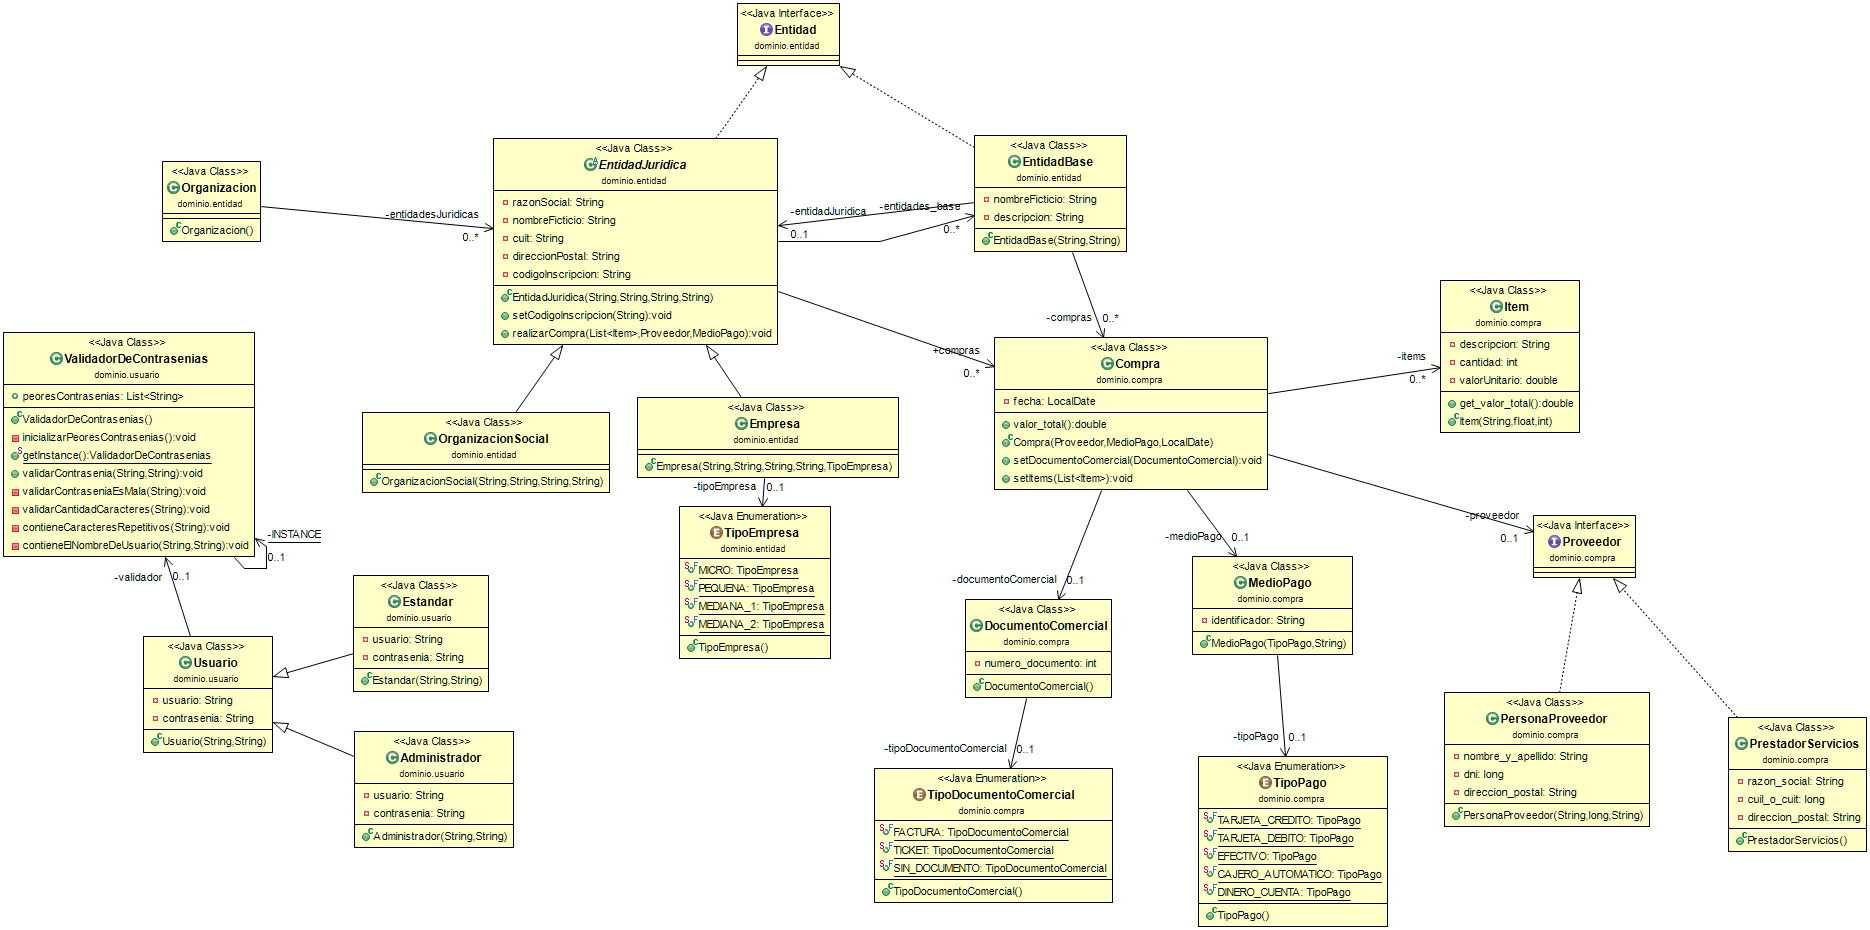
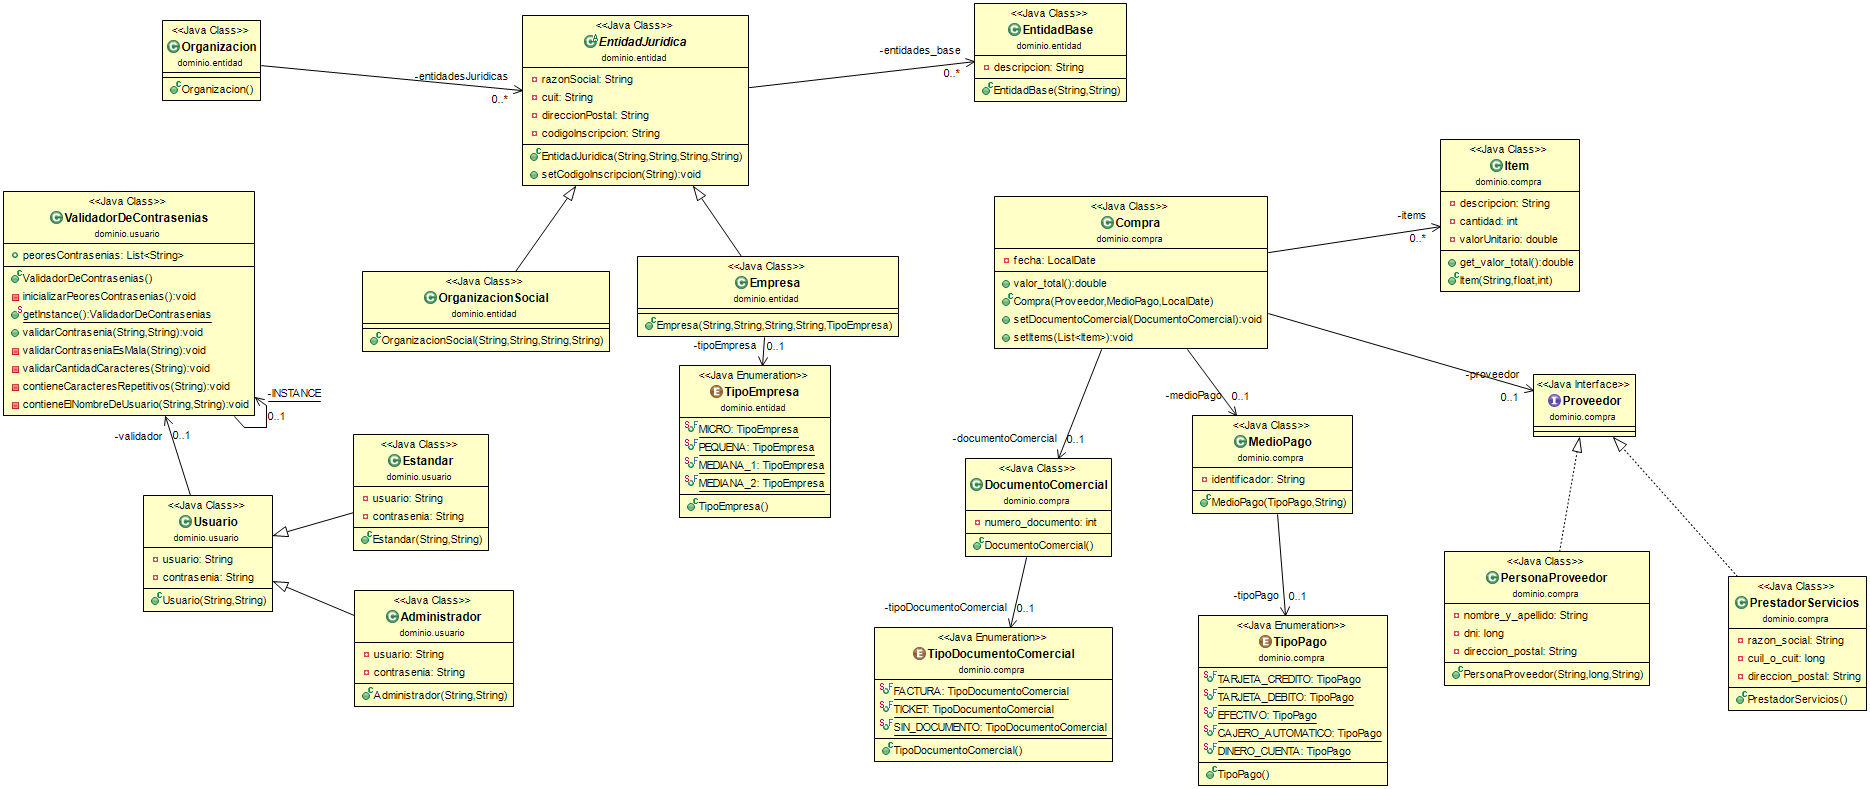
Muevo realizarCompra a super clase Entidad

diff --git a/src/main/java/dominio/entidad/EntidadJuridica.java b/src/main/java/dominio/entidad/EntidadJuridica.java
@@ -1,22 +1,15 @@
 package dominio.entidad;
 
-import java.time.LocalDate;
 import java.util.ArrayList;
 import java.util.List;
 
 import dominio.PreconditionFailed;
 import dominio.Preconditions;
-import dominio.compra.Compra;
-import dominio.compra.Item;
-import dominio.compra.MedioPago;
-import dominio.compra.Proveedor;
 
-public abstract class EntidadJuridica implements Entidad {
+public abstract class EntidadJuridica extends Entidad {
 
 	private List<EntidadBase> entidades_base = new ArrayList<EntidadBase>();	//puede ser vacia
-	public List<Compra> compras = new ArrayList<Compra>();
 	private String razonSocial;
-	private String nombreFicticio;
 	private String cuit;
 	private String direccionPostal;
 	private String codigoInscripcion;
@@ -34,14 +27,5 @@ public abstract class EntidadJuridica implements Entidad {
 	public void setCodigoInscripcion(String codigoInscripcion) {
 		this.codigoInscripcion = codigoInscripcion;
 	}
-	
-	public void realizarCompra(List<Item> items, Proveedor proveedor, MedioPago medioPago) throws PreconditionFailed {
-		LocalDate fecha = LocalDate.now();
-		Compra miCompra = new Compra(proveedor, medioPago, fecha);
-		miCompra.setItems(items);
-		
-		compras.add(miCompra);
-	}
-	
-	
+
 }

diff --git a/src/main/java/dominio/entidad/EntidadBase.java b/src/main/java/dominio/entidad/EntidadBase.java
@@ -1,18 +1,12 @@
 package dominio.entidad;
 
-import java.util.ArrayList;
-import java.util.List;
-
 import dominio.PreconditionFailed;
 import dominio.Preconditions;
-import dominio.compra.Compra;
 
-public class EntidadBase implements Entidad {
+public class EntidadBase extends Entidad {
 
-	private List<Compra> compras = new ArrayList<Compra>();
-	private String nombreFicticio;
 	private String descripcion;
-	private EntidadJuridica entidadJuridica; //para mi deberia conocer a la entidad juridica si es que la tiene
+	//private Entidad entidadJuridica; //para mi deberia conocer a la entidad juridica si es que la tiene
 	
 	public EntidadBase(String nombreFicticio, String descripcion) throws PreconditionFailed {
 		Preconditions.validateNotNull(nombreFicticio, "nombre ficticio faltante");

diff --git a/src/main/java/dominio/entidad/Entidad.java b/src/main/java/dominio/entidad/Entidad.java
@@ -1,5 +1,24 @@
 package dominio.entidad;
 
-public interface Entidad {
+import java.time.LocalDate;
+import java.util.ArrayList;
+import java.util.List;
+
+import dominio.PreconditionFailed;
+import dominio.compra.Compra;
+import dominio.compra.Item;
+import dominio.compra.MedioPago;
+import dominio.compra.Proveedor;
+
+public abstract class Entidad {
+	public List<Compra> compras = new ArrayList<Compra>();
+	protected String nombreFicticio;
+
+	public void realizarCompra(List<Item> items, Proveedor proveedor, MedioPago medioPago) throws PreconditionFailed {
+		LocalDate fecha = LocalDate.now();
+		Compra miCompra = new Compra(proveedor, medioPago, fecha);
+		miCompra.setItems(items);
+		compras.add(miCompra);
+	}
 
 }

diff --git a/src/test/java/prueba/Test_Entrega1.java b/src/test/java/prueba/Test_Entrega1.java
@@ -18,14 +18,13 @@ import dominio.compra.PersonaProveedor;
 import dominio.compra.TipoPago;
 import dominio.entidad.Entidad;
 import dominio.entidad.EntidadBase;
-import dominio.entidad.EntidadJuridica;
 import dominio.entidad.OrganizacionSocial;
 import dominio.usuario.ValidadorDeContrasenias;
 
 
 public class Test_Entrega1 {
 
-	public EntidadJuridica entidad;
+	public Entidad entidad;
 	
 	public String razonSocial = "razonSocial";
 	String cuit= "cuit";

diff --git a/src/main/java/dominio/entidad/Organizacion.java b/src/main/java/dominio/entidad/Organizacion.java
@@ -6,5 +6,5 @@ import java.util.List;
 public class Organizacion {
 
 	private List<EntidadJuridica> entidadesJuridicas = new ArrayList<EntidadJuridica>();
-	
+
 }
